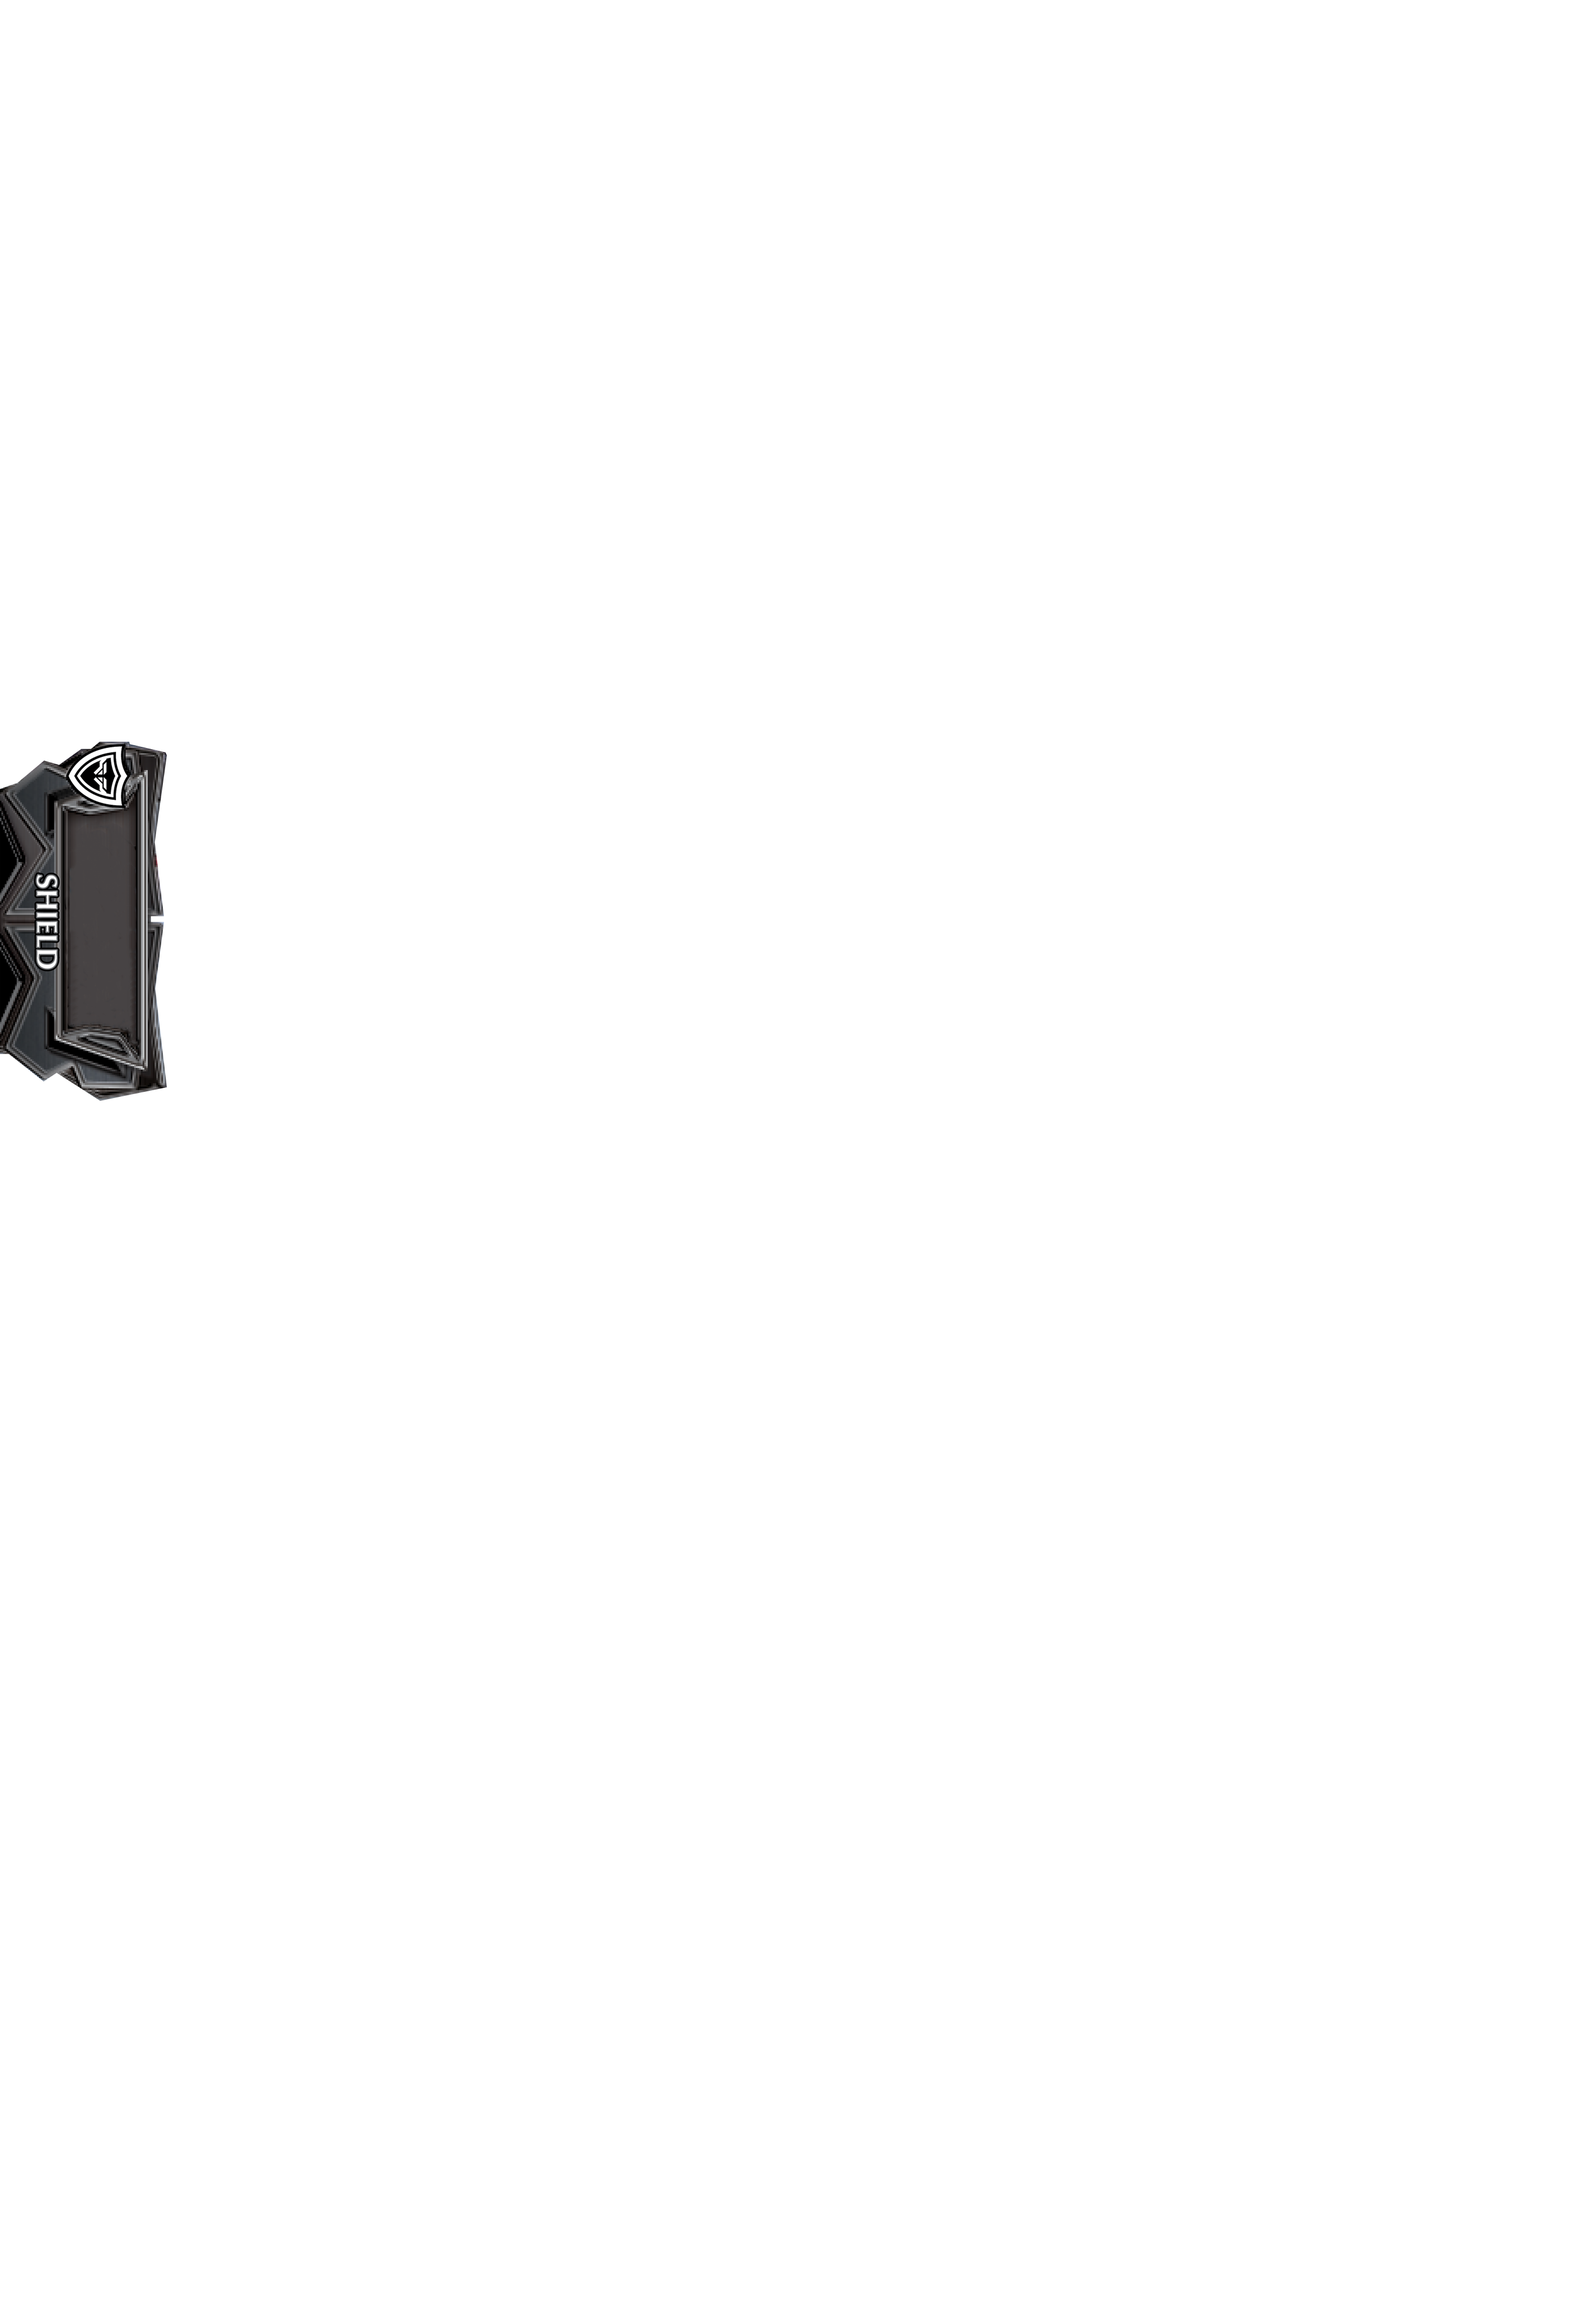
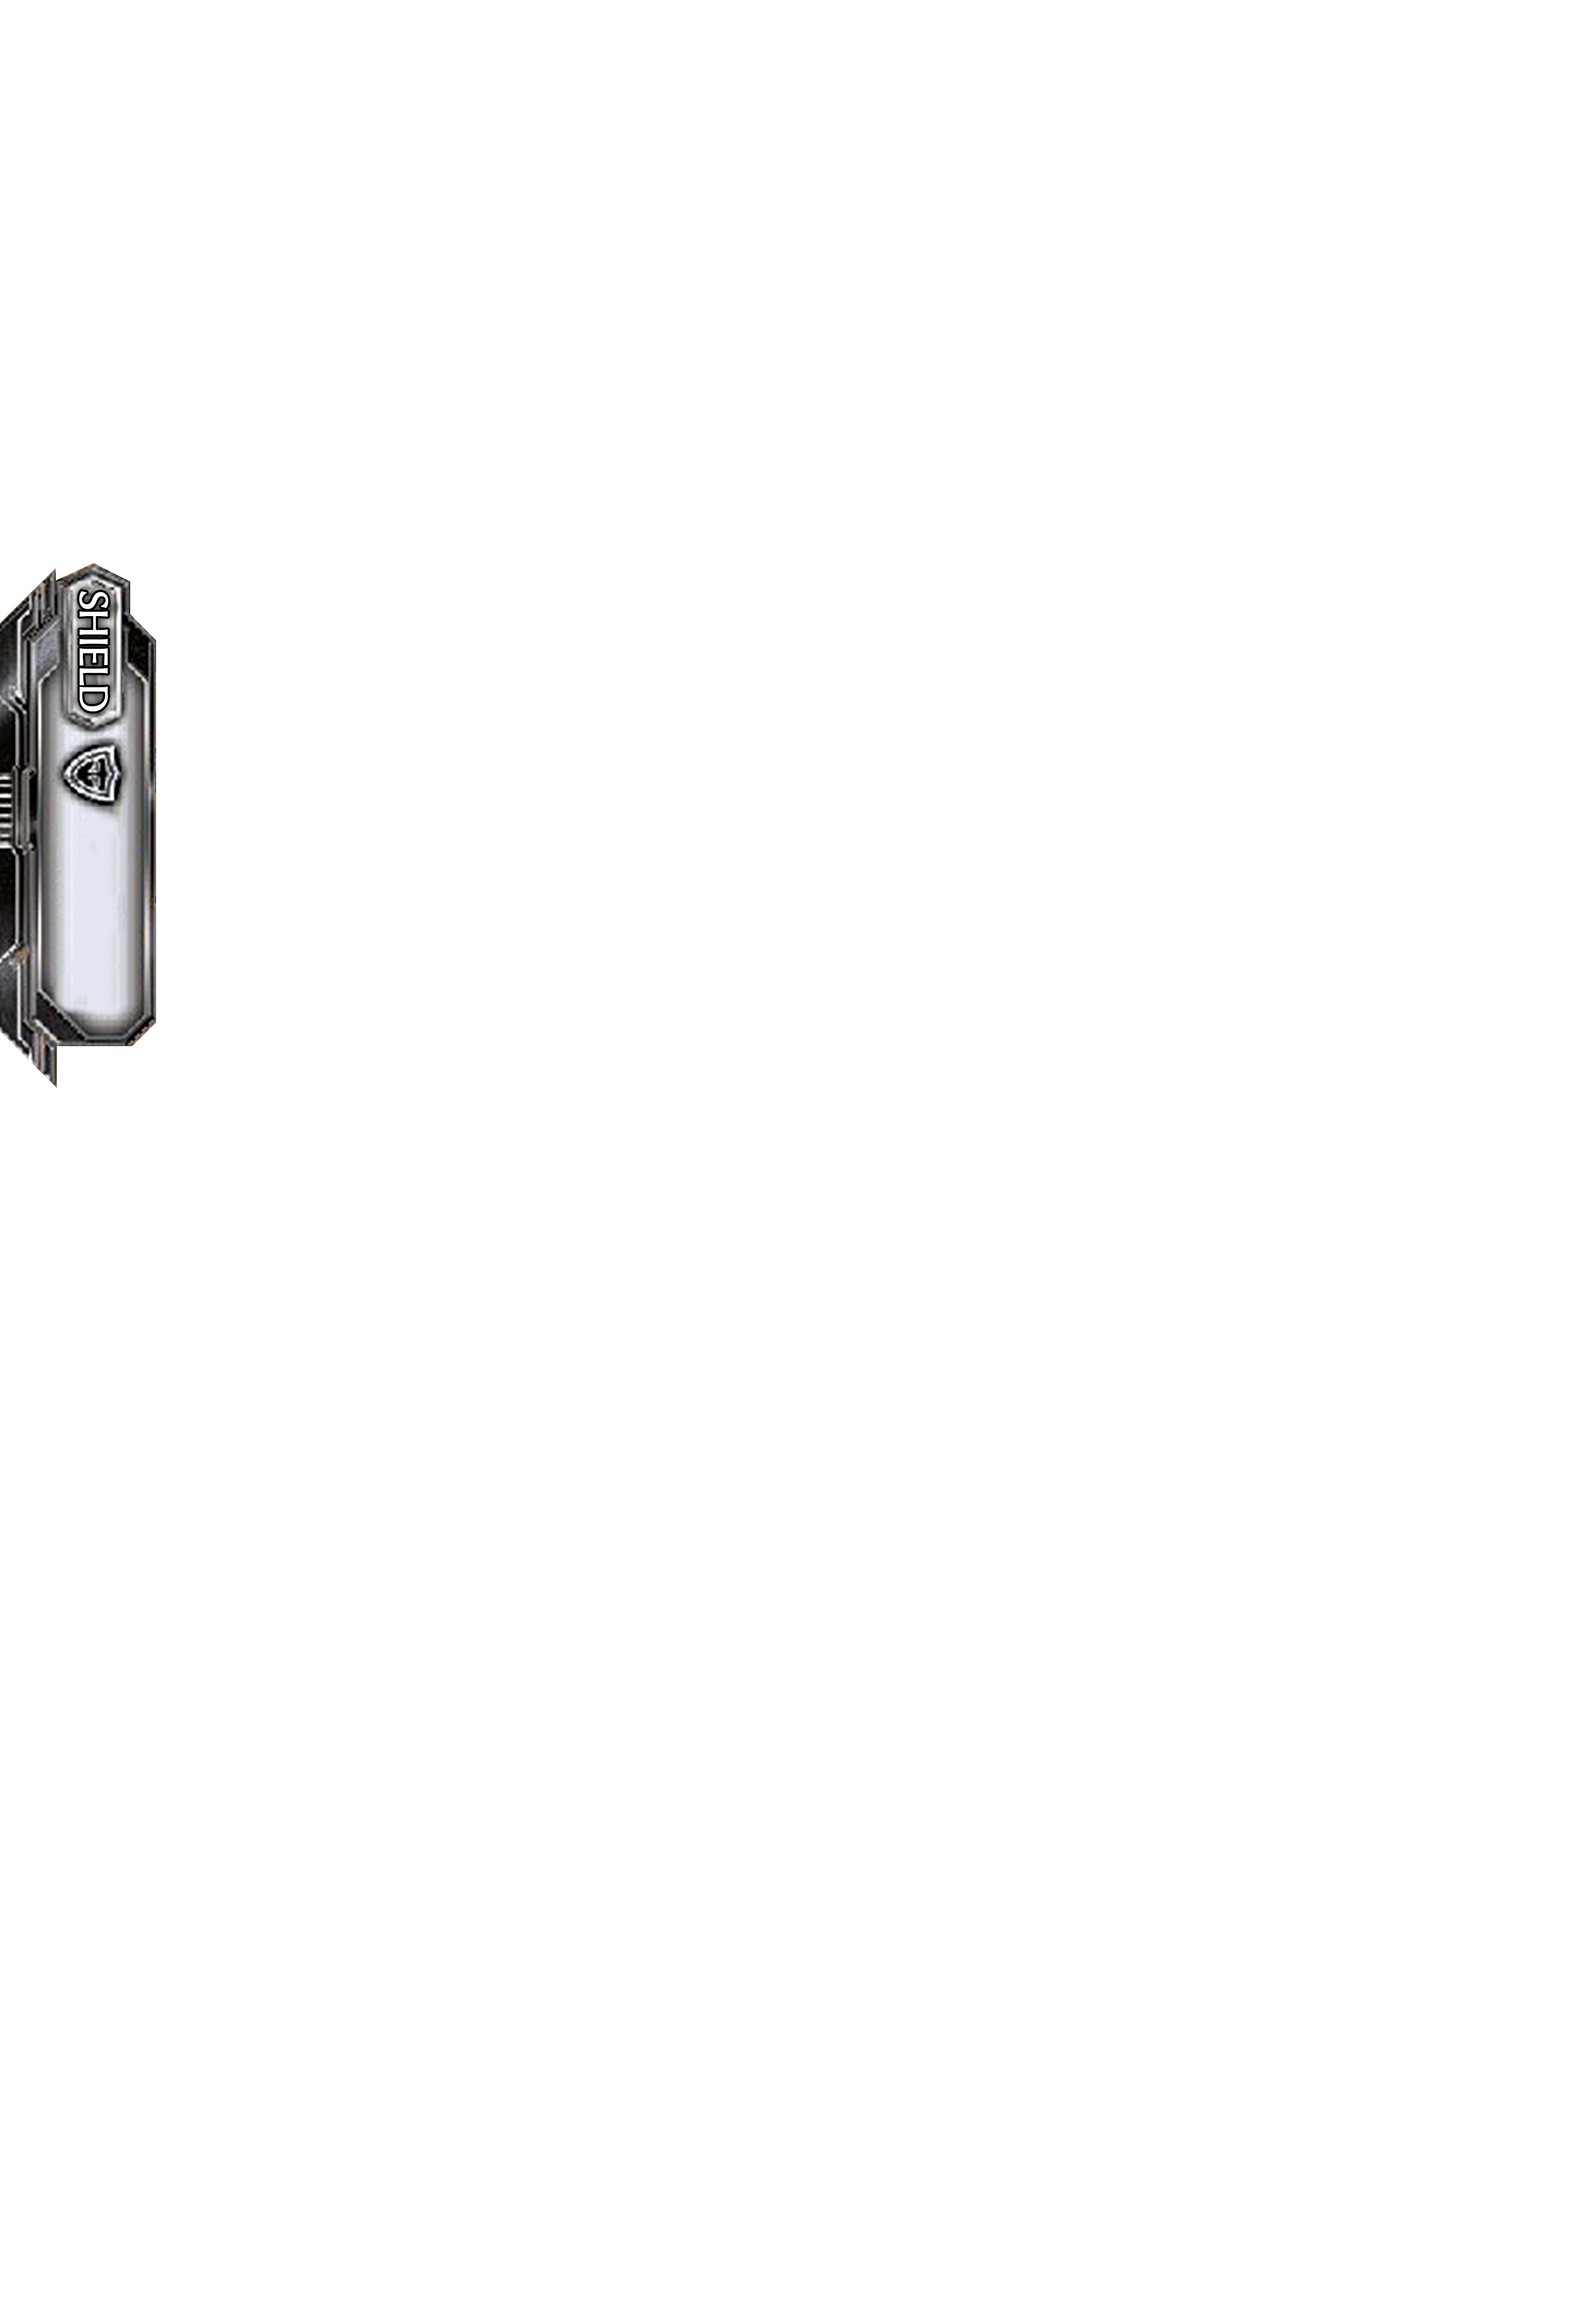
Clear Unnecessary files for V and edit Shield

Changed region(s): [[0.0, 0.2484, 0.1241, 0.4967]]

diff --git a/V/style.css b/V/style.css
@@ -491,7 +491,7 @@ option.zoo{
   line-height: 14px;
   align-self: center;
   
-  transform: translate(0px, -100px);
+  transform: translate(0px, -90px);
   paint-order: stroke fill;
   color: #fff;
   -webkit-text-stroke: 1.5px #000;
@@ -604,7 +604,7 @@ option.zoo{
   height: 22px;
   width: 60px;
   font-size: 22px;
-  transform: translate(-1.75px, -357.5px) rotate(90deg);
+  transform: translate(-5.5px, -357.5px) rotate(90deg);
   color: #e5d1a2;
   white-space: nowrap;
   overflow: hidden;
